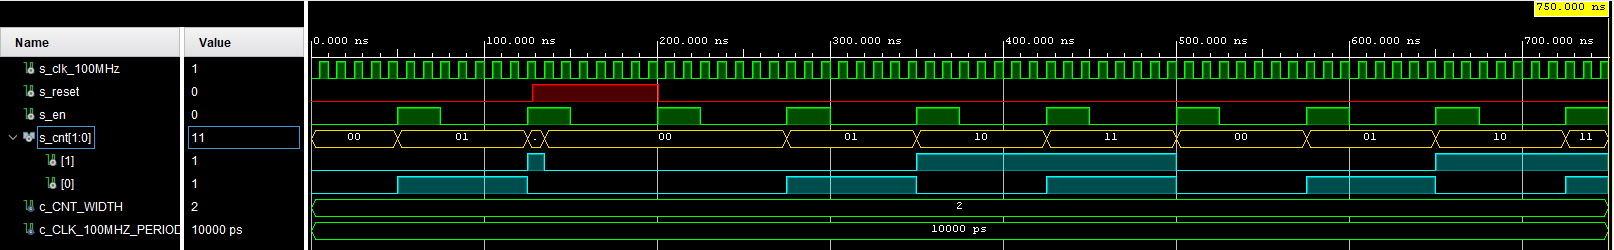
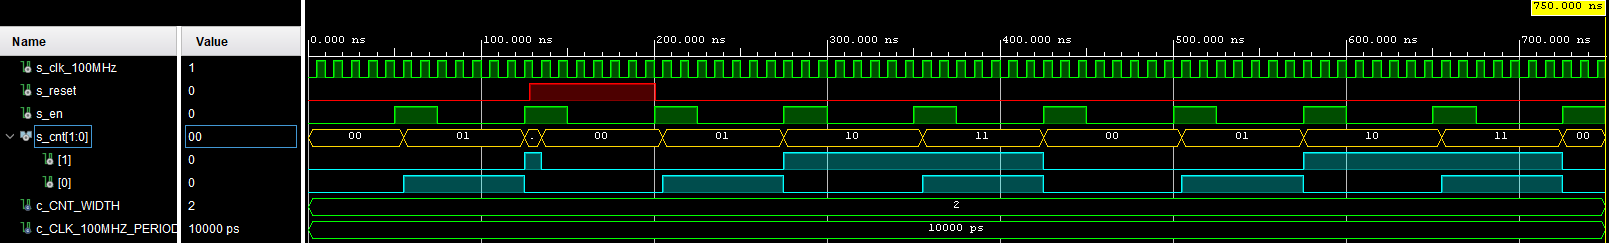
Update buttons

diff --git a/Ruiner-multiplex+counters+display/cnt_up_mode.md b/Ruiner-multiplex+counters+display/cnt_up_mode.md
@@ -33,7 +33,8 @@ end cnt_up_mode;
 architecture Behavioral of cnt_up_mode is
 
     -- Local counter
-    signal s_cnt_local : unsigned(g_CNT_WIDTH - 1 downto 0) := (others => '0'); -- default value of "00"
+    signal s_cnt_local : unsigned(g_CNT_WIDTH - 1 downto 0) := (others => '0'); -- Default value of "00"
+    signal s_cnt_btn   : std_logic := '0';                                      -- Signal to proces button
 
 begin
    --------------------------------------------------------------------
@@ -41,16 +42,19 @@ begin
     -- Clocked process with synchronous reset which implements n-bit
     -- up counter.
     --------------------------------------------------------------------
-    p_cnt_up : process(clk, en_i)
+    p_cnt_up : process(clk)
     begin
 
         if rising_edge(clk) then
             if (reset = '1') then                       -- Synchronous reset
                 s_cnt_local <= (others => '0');         -- Clear all bits
+                s_cnt_btn   <= '0';
+            elsif (en_i = '1' and s_cnt_btn = '0') then -- if button is pushed after release
+                s_cnt_local <= s_cnt_local + 1;
+                s_cnt_btn   <= '1';
+            elsif (en_i = '0' and s_cnt_btn = '1') then -- if button was released
+                s_cnt_btn   <= '0';   
             end if;
-        end if;
-        if (rising_edge(en_i) and reset = '0') then     -- Test if counter is enabled
-            s_cnt_local <= s_cnt_local + 1;
         end if;
     end process p_cnt_up;
 
@@ -172,7 +176,7 @@ begin
         -- Push button
         s_en     <= '1';
         wait for 25 ns;
-        assert(s_cnt = "00")
+        assert(s_cnt = "01")
         report "Test failed for 3. button push" severity error;
 
         -- Release button
@@ -182,7 +186,7 @@ begin
         -- Push button
         s_en     <= '1';
         wait for 25 ns;
-        assert(s_cnt = "01")
+        assert(s_cnt = "10")
         report "Test failed for 4. button push" severity error;
 
         -- Release button
@@ -192,7 +196,7 @@ begin
         -- Push button
         s_en     <= '1';
         wait for 25 ns;
-        assert(s_cnt = "10")
+        assert(s_cnt = "11")
         report "Test failed for 5. button push" severity error;
 
         -- Release button
@@ -202,7 +206,7 @@ begin
         -- Push button
         s_en     <= '1';
         wait for 25 ns;
-        assert(s_cnt = "11")
+        assert(s_cnt = "00")
         report "Test failed for 6. button push" severity error;
 
         -- Release button
@@ -212,7 +216,7 @@ begin
         -- Push button
         s_en     <= '1';
         wait for 25 ns;
-        assert(s_cnt = "00")
+        assert(s_cnt = "01")
         report "Test failed for 7. button push" severity error;
 
         -- Release button
@@ -222,7 +226,7 @@ begin
         -- Push button
         s_en     <= '1';
         wait for 25 ns;
-        assert(s_cnt = "01")
+        assert(s_cnt = "10")
         report "Test failed for 8. button push" severity error;
 
         -- Release button
@@ -232,7 +236,7 @@ begin
         -- Push button
         s_en     <= '1';
         wait for 25 ns;
-        assert(s_cnt = "10")
+        assert(s_cnt = "11")
         report "Test failed for 9. button push" severity error;
 
         -- Release button
@@ -242,7 +246,7 @@ begin
         -- Push button
         s_en     <= '1';
         wait for 25 ns;
-        assert(s_cnt = "11")
+        assert(s_cnt = "00")
         report "Test failed for 10. button push" severity error;
 
         -- Release button

diff --git a/Ruiner-multiplex+counters+display/derailleur.md b/Ruiner-multiplex+counters+display/derailleur.md
@@ -27,18 +27,17 @@ architecture Behavioral of derailleur is
     type   t_state is (ONE, TWO, THREE);
 
     -- Define the signal that uses different states
-    signal s_state  : t_state   := TWO;         -- Default state is TWO
+    signal s_state     : t_state   := TWO;      -- Default state is TWO
+    signal s_cnt_btn   : std_logic := '0';      -- Signal to proces button
 
 begin
 
-    p_output_derailleur : process(clk, btn_i)
+    p_output_derailleur : process(clk)
     begin
         if rising_edge(clk) then
             if (reset = '1') then       -- Synchronous reset
                 s_state <= TWO ;        -- Set initial state
-            end if;
-        end if;   
-        if (rising_edge(btn_i) and reset = '0') then
+            elsif (btn_i = '1' and s_cnt_btn = '0') then    -- if button is pushed after release
                 case s_state is
                     when ONE =>
                           -- Move to the next state
@@ -56,7 +55,11 @@ begin
                         s_state <= TWO;  -- Default state if there is different output
 
                 end case;
-        end if;
+                s_cnt_btn   <= '1';
+            elsif (btn_i = '0' and s_cnt_btn = '1') then    -- if button was released
+                s_cnt_btn   <= '0';
+            end if;
+        end if;   
     end process p_output_derailleur;
 
     p_output_states : process(s_state)
@@ -161,7 +164,7 @@ begin
         wait for 58 ns;
 
         s_btn <= '1';
-        wait for 12 ns;
+        wait for 32 ns;
         assert(s_level_of_difficulty = "100")
         report "Test failed for 2nd push button" severity error;
 
@@ -170,7 +173,7 @@ begin
 
         s_btn <= '1';
         wait for 58 ns;
-        assert(s_level_of_difficulty = "010")
+        assert(s_level_of_difficulty = "001")
         report "Test failed for 3rd push button" severity error;
 
         s_btn <= '0';
@@ -178,7 +181,7 @@ begin
 
         s_btn <= '1';
         wait for 12 ns;
-        assert(s_level_of_difficulty = "001")
+        assert(s_level_of_difficulty = "100")
         report "Test failed for 4th push button" severity error;
 
         s_btn <= '0';
